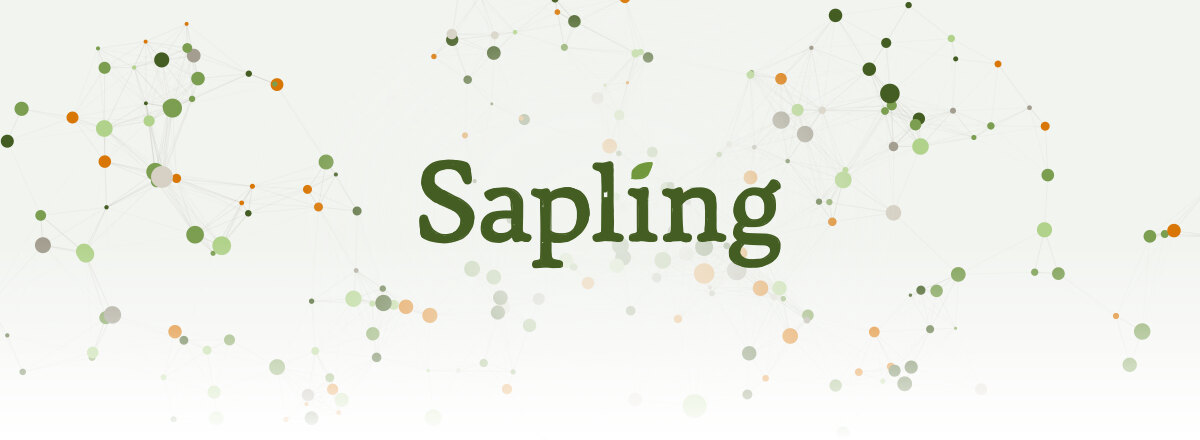
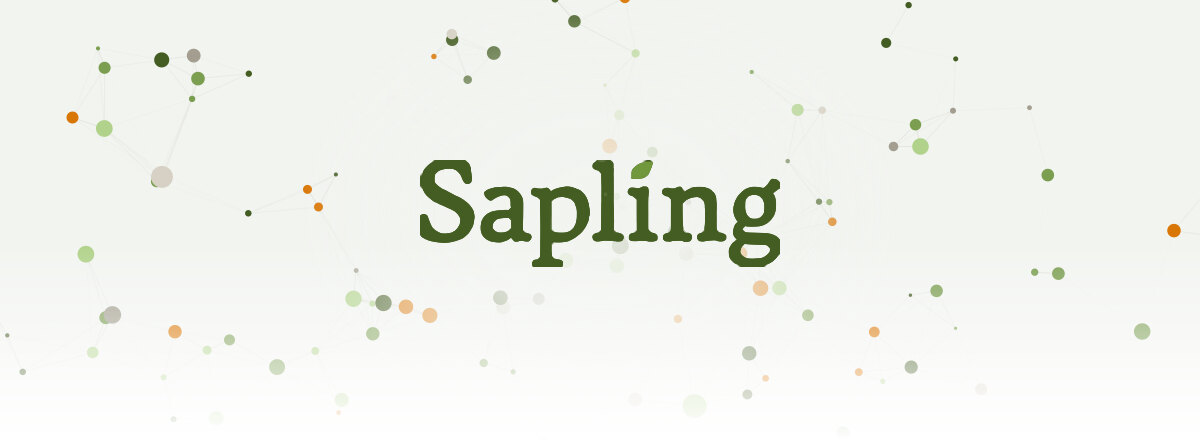
fix(email): close the wordmark's seam pinholes; half as many header dots
The wordmark SVG is ~120 overlapping strokes and two seams showed the
background through (the 'l' and the 'p'). It's now rasterised on its own,
its alpha closed with a 2px disk and the gaps filled in the letter colour,
then laid over the cloud. The cloud drops from 260 points to 130.

Claude-Session: https://claude.ai/code/session_012gSVb6DCGsdgWCkpJo7KTe

diff --git a/backend/scripts/build_email_assets.py b/backend/scripts/build_email_assets.py
@@ -22,7 +22,6 @@ from __future__ import annotations
 
 import math
 import random
-import re
 import subprocess
 import tempfile
 from pathlib import Path
@@ -71,7 +70,7 @@ def _cloud(rng: random.Random) -> str:
     # a little zoomed out so more of the cloud fits the wide, short strip.
     scale, cx, cy = 0.95, W / 2, H / 2
     pts = []
-    for _ in range(260):
+    for _ in range(130):
         ox, oy, oz = CLUSTERS[rng.randrange(len(CLUSTERS))]
         x = ox + (rng.random() - 0.5) * SPREAD
         y = oy + (rng.random() - 0.5) * SPREAD
@@ -98,18 +97,29 @@ def _cloud(rng: random.Random) -> str:
     return "".join(links) + "".join(dots)
 
 
-def _wordmark(*, width: float) -> str:
-    src = (PUBLIC / "design" / "sapling" / "sapling-wordmark-approved.svg").read_text()
-    src = re.sub(r"<\?xml[^>]*\?>", "", src)
-    height = width * 44.55 / 150
-    x, y = (W - width) / 2, (H - height) / 2 - 6
-    return re.sub(
-        r"<svg\b[^>]*?>",
-        f'<svg x="{x:.1f}" y="{y:.1f}" width="{width:.1f}" height="{height:.1f}" '
-        'viewBox="0 0 150 44.55" overflow="visible">',
-        src,
-        count=1,
-    )
+WORDMARK_W = 360
+LETTER = "#445d22"  # the wordmark's letter stroke colour
+
+
+def _wordmark(tmp: Path) -> tuple[Path, int, int]:
+    """The wordmark as a PNG with its seams closed, and where it goes.
+
+    The SVG is traced as ~120 overlapping strokes; where two meet badly a
+    pinhole of background shows through (the "l" and the "p"). A small
+    morphological close on the alpha fills those without touching the real
+    counters (the bowls of a, p and g are far wider), and the filled pixels
+    take the letter colour underneath the original art."""
+    raw, mask, out = tmp / "wm-raw.png", tmp / "wm-mask.png", tmp / "wm.png"
+    _run("rsvg-convert", "-w", str(WORDMARK_W),
+         str(PUBLIC / "design" / "sapling" / "sapling-wordmark-approved.svg"), "-o", str(raw))
+    _run("magick", str(raw), "-alpha", "extract", "-morphology", "Close", "Disk:2", str(mask))
+    _run("magick", str(raw), "(", "+clone", "-fill", LETTER, "-colorize", "100", str(mask),
+         "-alpha", "off", "-compose", "CopyOpacity", "-composite", ")",
+         "+swap", "-compose", "Over", "-composite", str(out))
+    w, h = (int(v) for v in subprocess.run(
+        ["magick", "identify", "-format", "%w %h", str(out)], check=True, capture_output=True, text=True,
+    ).stdout.split())
+    return out, (W - w) // 2, (H - h) // 2 - 6
 
 
 def header(tmp: Path) -> None:
@@ -133,13 +143,14 @@ def header(tmp: Path) -> None:
         f"{_cloud(rng)}"
         f'<rect width="{W}" height="{H}" fill="url(#glow)"/>'
         f'<rect width="{W}" height="{H}" fill="url(#foot)"/>'
-        + _wordmark(width=360)
-        + "</svg>"
+        "</svg>"
     )
     src = tmp / "header.svg"
     src.write_text(svg)
     png = tmp / "header.png"
     _run("rsvg-convert", str(src), "-o", str(png))
+    wm, x, y = _wordmark(tmp)
+    _run("magick", str(png), str(wm), "-geometry", f"+{x}+{y}", "-compose", "Over", "-composite", str(png))
     # JPEG: the header is opaque and photographic enough that PNG costs 4x.
     _run("magick", str(png), "-strip", "-sampling-factor", "4:4:4", "-quality", "86", str(OUT / "header.jpg"))
 
